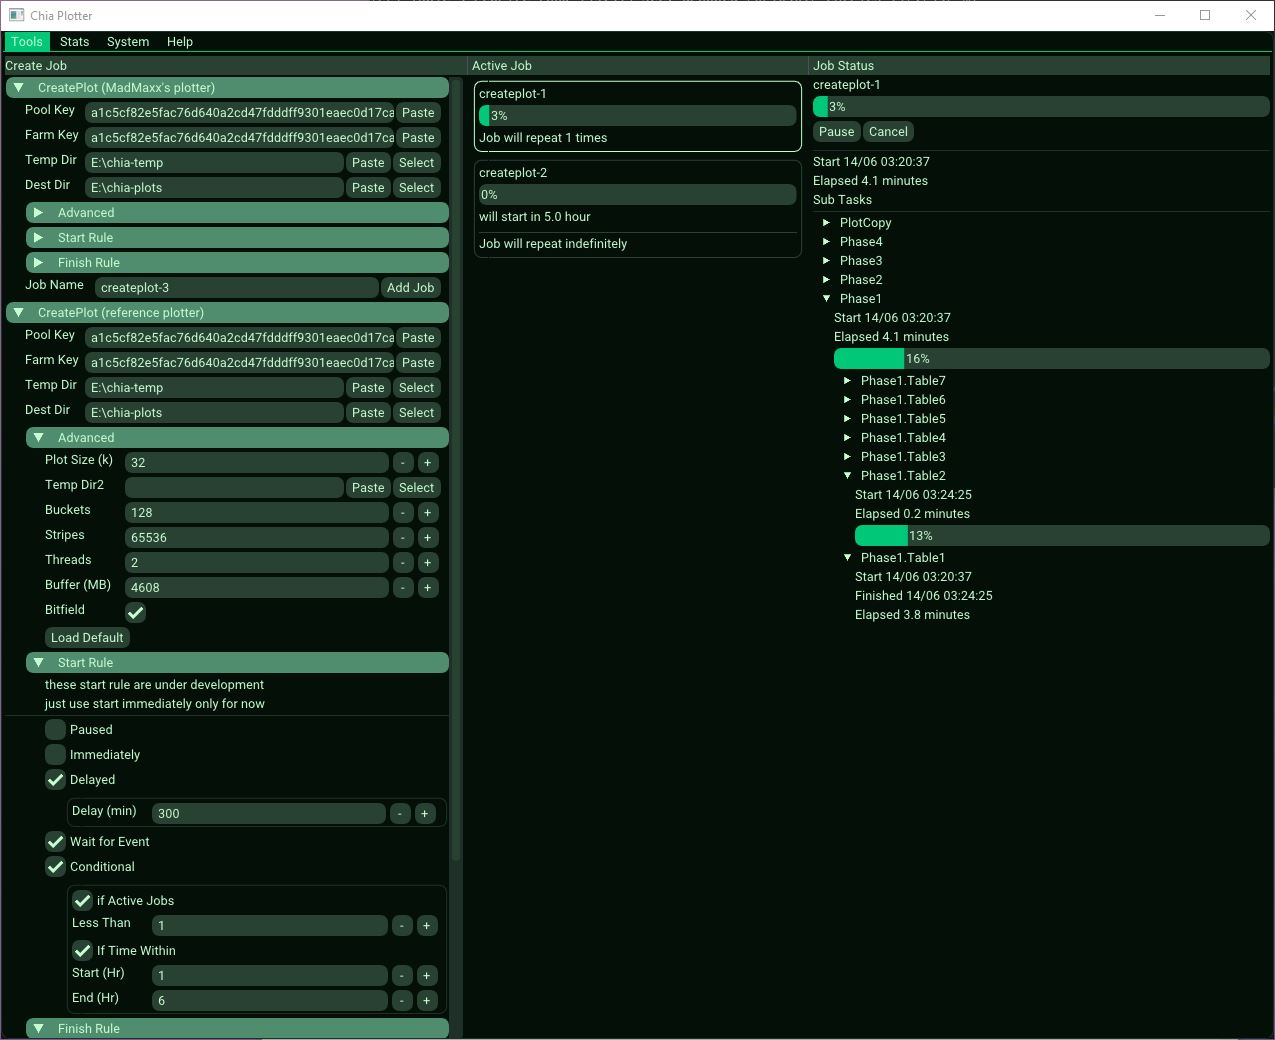
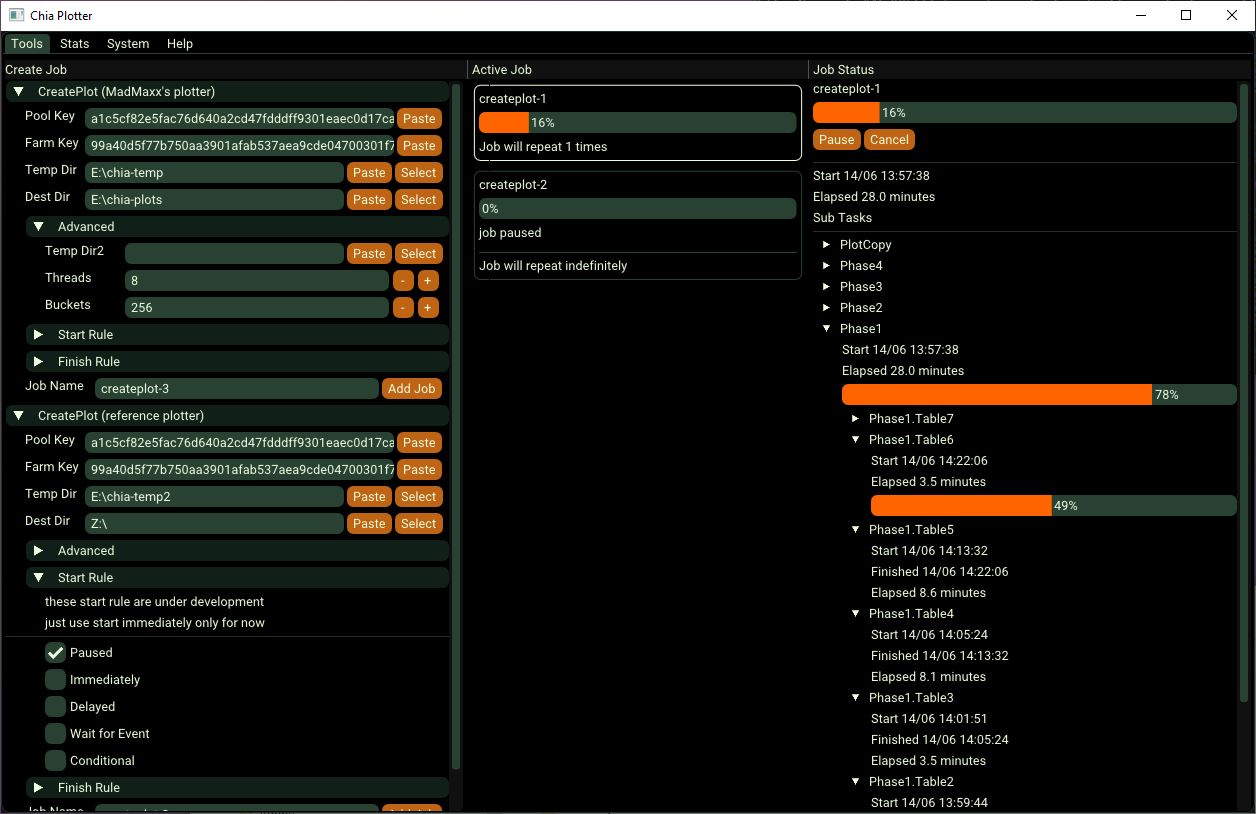
fix progress tree

diff --git a/src/main.cpp b/src/main.cpp
@@ -489,7 +489,7 @@ constexpr auto ColorFromBytes = [](uint8_t r, uint8_t g, uint8_t b)
 	return ImVec4((float)r / 255.0f, (float)g / 255.0f, (float)b / 255.0f, 1.0f);
 };
 
-const ImVec4 bgColor           = ColorFromBytes(4, 16, 8);
+const ImVec4 bgColor           = ColorFromBytes(0, 0, 0);
 const ImVec4 lightBgColor      = ColorFromBytes(40, 65, 50);
 const ImVec4 veryLightBgColor  = ColorFromBytes(70, 115, 90);
 
@@ -497,7 +497,7 @@ const ImVec4 panelColor        = ColorFromBytes(80, 140, 110);
 const ImVec4 panelHoverColor   = ColorFromBytes(30, 215, 140);
 const ImVec4 panelActiveColor  = ColorFromBytes(0, 200, 120);
 
-const ImVec4 textColor         = ColorFromBytes(200, 255, 210);
+const ImVec4 textColor         = ColorFromBytes(240, 255, 225);
 const ImVec4 textDisabledColor = ColorFromBytes(96, 96, 96);
 const ImVec4 borderColor       = ColorFromBytes(30, 48, 40);
 
@@ -521,18 +521,18 @@ void Style()
 	colors[ImGuiCol_TitleBgActive]        = bgColor;
 	colors[ImGuiCol_TitleBgCollapsed]     = bgColor;
 	colors[ImGuiCol_MenuBarBg]            = panelColor;
-	colors[ImGuiCol_ScrollbarBg]          = borderColor;
+	colors[ImGuiCol_ScrollbarBg]          = ColorFromBytes(16,16,16);
 	colors[ImGuiCol_ScrollbarGrab]        = lightBgColor;
 	colors[ImGuiCol_ScrollbarGrabHovered] = veryLightBgColor;
 	colors[ImGuiCol_ScrollbarGrabActive]  = panelActiveColor;
 	colors[ImGuiCol_CheckMark]            = textColor;
 	colors[ImGuiCol_SliderGrab]           = panelHoverColor;
 	colors[ImGuiCol_SliderGrabActive]     = panelActiveColor;
-	colors[ImGuiCol_Button]               = lightBgColor;
-	colors[ImGuiCol_ButtonHovered]        = veryLightBgColor;
+	colors[ImGuiCol_Button]               = ColorFromBytes(190, 100, 20);
+	colors[ImGuiCol_ButtonHovered]        = ColorFromBytes(250, 150, 45);
 	colors[ImGuiCol_ButtonActive]         = panelHoverColor;
-	colors[ImGuiCol_Header]               = panelColor;
-	colors[ImGuiCol_HeaderHovered]        = panelHoverColor;
+	colors[ImGuiCol_Header]               = ColorFromBytes(16,32,24);
+	colors[ImGuiCol_HeaderHovered]        = veryLightBgColor;
 	colors[ImGuiCol_HeaderActive]         = panelActiveColor;
 	colors[ImGuiCol_Separator]            = borderColor;
 	colors[ImGuiCol_SeparatorHovered]     = borderColor;
@@ -542,30 +542,30 @@ void Style()
 	colors[ImGuiCol_ResizeGripActive]     = veryLightBgColor;
 	colors[ImGuiCol_PlotLines]            = panelActiveColor;
 	colors[ImGuiCol_PlotLinesHovered]     = panelHoverColor;
-	colors[ImGuiCol_PlotHistogram]        = panelActiveColor;
+	colors[ImGuiCol_PlotHistogram]        = ColorFromBytes(255, 100, 0);
 	colors[ImGuiCol_PlotHistogramHovered] = panelHoverColor;
 	colors[ImGuiCol_DragDropTarget]       = bgColor;
 	colors[ImGuiCol_NavHighlight]         = bgColor;
 	colors[ImGuiCol_Tab]                  = bgColor;
-	colors[ImGuiCol_TabActive]            = panelActiveColor;
+	colors[ImGuiCol_TabActive]            = lightBgColor;
 	colors[ImGuiCol_TabUnfocused]         = bgColor;
 	colors[ImGuiCol_TabUnfocusedActive]   = panelActiveColor;
 	colors[ImGuiCol_TabHovered]           = panelHoverColor;
-	colors[ImGuiCol_TableHeaderBg]        = lightBgColor;
+	colors[ImGuiCol_TableHeaderBg]        = ColorFromBytes(16,16,16);
 
 	style.WindowRounding    = 8.0f;
 	style.ChildRounding     = 4.0f;
-	style.FrameRounding     = 7.0f;
+	style.FrameRounding     = 6.0f;
 	style.GrabRounding      = 4.0f;
 	style.PopupRounding     = 4.0f;
 	style.ScrollbarRounding = 4.0f;
 	style.TabRounding       = 0.0f;
 	style.FramePadding		= ImVec2(6.0f,3.0f);
-	style.WindowPadding     = ImVec2(4.0f,0.0f);
-	style.ItemSpacing		= ImVec2(2.0f,4.0f);
+	style.WindowPadding     = ImVec2(4.0f,2.0f);
+	style.ItemSpacing		= ImVec2(3.0f,6.0f);
 	style.AntiAliasedLines = true;
 	style.AntiAliasedFill = true;
-	style.TabRounding       = 0.0f;
+	style.TabRounding       = 4.0f;
 }
 
 const ImGuiTableFlags tableFlag = 

diff --git a/src/JobCreatePlotMax.cpp b/src/JobCreatePlotMax.cpp
@@ -16,6 +16,14 @@
 
 FactoryRegistration<JobCreatePlotMaxFactory> JobCreatePlotMaxFactoryRegistration;
 
+JobCreatePlotMaxParam::JobCreatePlotMaxParam()
+{
+	this->threads = std::thread::hardware_concurrency()/2;
+	if (this->threads < 2) {
+		this->threads = 2;
+	}
+}
+
 void JobCreatePlotMaxParam::loadDefault()
 {
 	this->readChunkSize = 65536;
@@ -364,8 +372,8 @@ bool JobCreatePlotMaxParam::drawEditor()
 			if (this->buckets < 16) {
 				this->buckets = 16;
 			}
-			if (this->buckets > 128) {
-				this->buckets = 128;
+			if (this->buckets > 256) {
+				this->buckets = 256;
 			}
 			bucketInput= this->buckets;
 			result |= true;
@@ -500,11 +508,10 @@ void JobCreatePlotMax::initActivity()
 						{
 							std::wcout << L"Started copy to " << param.destFile.wstring() << std::endl;
 							const auto total_begin = get_wall_time_micros();
-							std::filesystem::copy(out_4.plot_file_name, param.destFileTempPath);
-							const auto time = (get_wall_time_micros() - total_begin) / 1e6;	
-							_wrename(param.destFileTempPath.c_str(), param.destFile.c_str());
+							std::filesystem::copy(out_4.plot_file_name, param.destFile);
 							_wremove(out_4.plot_file_name.c_str());
-							std::wcout << L"Copy to " << param.destFile.wstring() << L" finished, took " << time << L" sec " << std::endl;
+							const auto time = (get_wall_time_micros() - total_begin) / 1e6;	
+							std::wcout << L"Move to " << param.destFile.wstring() << L" finished, took " << time << L" sec " << std::endl;
 						}
 						context.popTask();
 						plottingJob->finishEvent->trigger(context.job);

diff --git a/src/Job.cpp b/src/Job.cpp
@@ -399,6 +399,9 @@ float JobTaskItem::getProgress()
 		if (childProgress < 0.0f) {
 			childProgress = 0.0f;
 		}
+		if (!this->isFinished() && childProgress >= 0.999) {
+			childProgress = 0.99;
+		}
 		return childProgress;
 	}
 	else {
@@ -412,6 +415,9 @@ float JobTaskItem::getProgress()
 		}
 		if (val < 0.0f) {
 			val = 0.0f;
+		}
+		if (!this->isFinished() && val >= 0.999) {
+			val = 0.99;
 		}
 		return val;
 	}
@@ -469,10 +475,11 @@ bool JobTaskItem::isFinished() const
 bool JobTaskItem::drawStatusWidget()
 {	
 	ImGui::PushID((const void*)this);
-	if (this->isFinished() || this->isRunning()) {
+	if (this->isRunning()) {
 		ImGui::SetNextItemOpen(true);
 	}
-	if (ImGui::TreeNode(this->name.c_str())) {			
+	if (ImGui::TreeNode(this->name.c_str())) {
+		ImGui::Indent(8);
 		if (this->isFinished()) {
 			ImGui::Text("Start %s",systemClockToStr(this->startTime).c_str());
 			ImGui::Text("Finished %s",systemClockToStr(this->finishTime).c_str());
@@ -494,6 +501,7 @@ bool JobTaskItem::drawStatusWidget()
 		for (auto task : this->tasks) {			
 			task->drawStatusWidget();
 		}
+		ImGui::Unindent(8);
 		ImGui::TreePop();
 	}
 	ImGui::PopID();
@@ -567,6 +575,10 @@ bool JobActvity::stop(bool finished, bool force /*= false*/)
 					this->onFinish(&this->state);
 				}
 			}
+			return true;
+		}
+		else {
+			return false;
 		}
 	}
 	else {

diff --git a/src/madmax/phase1.hpp b/src/madmax/phase1.hpp
@@ -356,12 +356,12 @@ namespace mad::phase1 {
 					num_written += out.size();
 				}, &eval_pool, num_threads, "phase1/match");
 	
-	Thread<std::pair<std::vector<T>, size_t>> read_thread(
+			Thread<std::pair<std::vector<T>, size_t>> read_thread(		
 				[&L_index, &L_offset, &L_bucket, &avg_bucket_size, &match_pool, L_tmp_out]
-		 (std::pair<std::vector<T>, size_t>& input) {
+				(std::pair<std::vector<T>, size_t>& input) {
 					std::vector<match_input_t> out;
 					out.reserve(1024);
-			for(const auto& entry : input.first) {
+					for(const auto& entry : input.first) {
 						const uint64_t index = entry.y / kBC;
 						if(index < L_index[0]) {
 							throw std::logic_error("input not sorted");

diff --git a/src/JobCreatePlotMax.h b/src/JobCreatePlotMax.h
@@ -6,6 +6,7 @@
 
 class JobCreatePlotMaxParam {
 public:
+	JobCreatePlotMaxParam();
 	std::filesystem::path destPath;
 	std::filesystem::path tempPath;
 	std::filesystem::path temp2Path;
@@ -13,7 +14,7 @@ public:
 	std::string farmKey;
 	
 	uint8_t threads {2};
-	uint32_t buckets {128};
+	uint32_t buckets {256};
 	size_t readChunkSize {65536};
 	void loadDefault();
 	bool isValid(std::vector<std::string>& errs) const;

diff --git a/src/madmax/phase2.hpp b/src/madmax/phase2.hpp
@@ -143,7 +143,6 @@ void compute(	DiskPlotterContext& context,
 	const std::wstring prefix_2 = input.tempDir2 + input.plot_name + L".p2.";
 
 	std::shared_ptr<JobTaskItem> currentTask = context.getCurrentTask();
-	context.pushTask("Phase2.Table1", currentTask);
 	context.pushTask("Phase2.Table2", currentTask);
 	context.pushTask("Phase2.Table3", currentTask);
 	context.pushTask("Phase2.Table4", currentTask);
